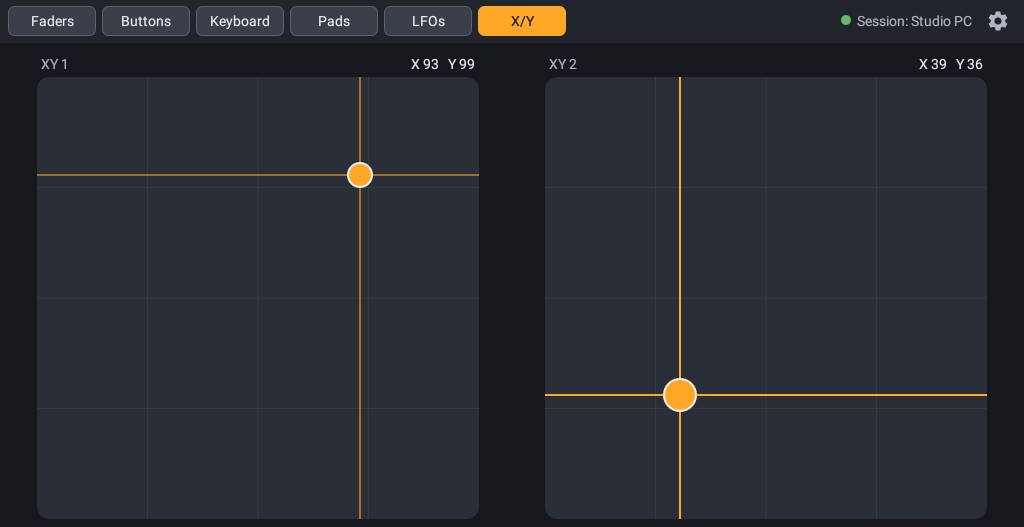
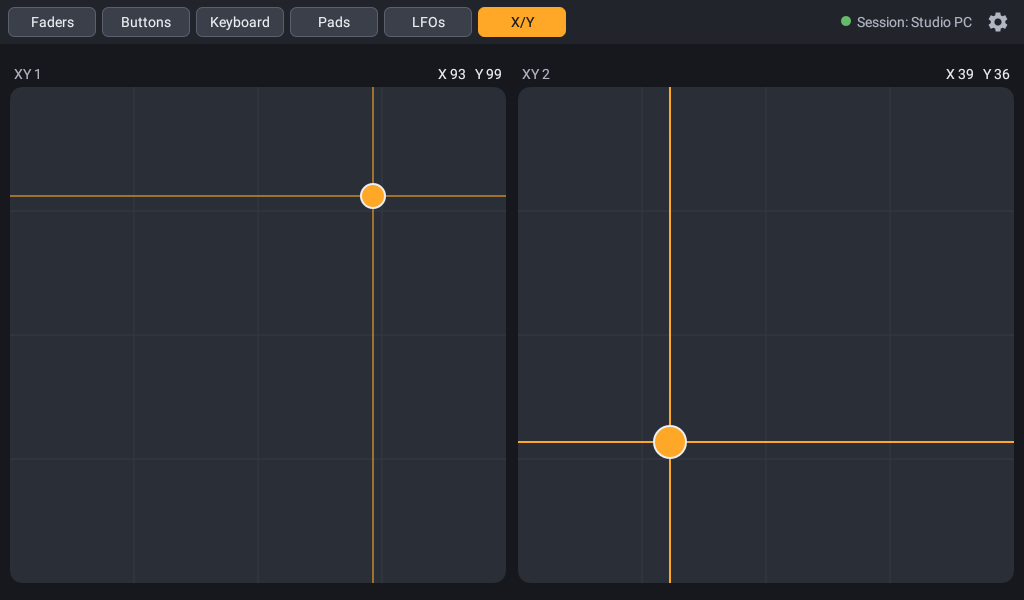
Run fullscreen on the Pages: hide status and navigation bar, swipe from the edge to show them
Settings screen keeps the bars. README: fullscreen note, ZUI window handle under Known issues,
Page screenshots retaken at full 1024x600. CHANGELOG: Unreleased entry. AGENTS.md: cropping only for settings.

Changed region(s): [[0.0, 0.0304, 1.0, 1.0], [0.8125, 0.0304, 1.0, 0.0607]]

diff --git a/app/src/main/java/com/duddex/faderling/Insets.kt b/app/src/main/java/com/duddex/faderling/Insets.kt
@@ -2,7 +2,24 @@ package com.duddex.faderling
 
 import android.os.Build
 import android.view.View
+import android.view.Window
 import android.view.WindowInsets
+import android.view.WindowInsetsController
+
+/** Hides status and navigation bar; an edge swipe shows them on top of the app for a moment. */
+fun Window.hideSystemBars() {
+    if (Build.VERSION.SDK_INT >= 30) {
+        insetsController?.let {
+            it.systemBarsBehavior = WindowInsetsController.BEHAVIOR_SHOW_TRANSIENT_BARS_BY_SWIPE
+            it.hide(WindowInsets.Type.systemBars())
+        }
+    } else {
+        @Suppress("DEPRECATION")
+        decorView.systemUiVisibility = View.SYSTEM_UI_FLAG_IMMERSIVE_STICKY or
+            View.SYSTEM_UI_FLAG_HIDE_NAVIGATION or
+            View.SYSTEM_UI_FLAG_FULLSCREEN
+    }
+}
 
 fun View.padForSystemBars() {
     val base = intArrayOf(paddingLeft, paddingTop, paddingRight, paddingBottom)

diff --git a/app/src/main/java/com/duddex/faderling/MainActivity.kt b/app/src/main/java/com/duddex/faderling/MainActivity.kt
@@ -235,6 +235,11 @@ class MainActivity : Activity(), ControlListener, KeyboardView.Listener, PadGrid
         }, view, SystemClock.uptimeMillis() + RESEND_DELAY_MS)
     }
 
+    override fun onWindowFocusChanged(hasFocus: Boolean) {
+        super.onWindowFocusChanged(hasFocus)
+        if (hasFocus) window.hideSystemBars()
+    }
+
     override fun onPause() {
         keyboard.releaseAll()
         padGrid.releaseAll()

diff --git a/README.md b/README.md
@@ -56,6 +56,7 @@ The gear icon opens the settings on the tab of the Page you are on. Each Page ha
 - Every Control re-sends its final value shortly after release, and every Note Off is sent twice, to make up for lost Wi-Fi packets; held notes are released when you switch Pages or leave the app
 - Advertises itself via Bonjour as **Faderling** plus the device model (e.g. *Faderling KFAUWI*), so several tablets can be told apart; the receiver starts the Session
 - Keeps the screen on while a Page is shown (not on the settings screen, where the normal screen timeout applies); plug the tablet in for longer sessions
+- Runs fullscreen: status and navigation bar are hidden while a Page is shown, swipe from the screen edge to bring them back for a moment. The settings screen keeps them.
 - Runs on Android 5.1 (API 22) and newer, on tablets and phones
 
 ## Download
@@ -116,6 +117,7 @@ After opening the patch, select your rtpMIDI session port as the MIDI device in 
   adb shell settings put system three_finger_slide_down_enabled 0
   ```
   Other manufacturers have similar multi-finger gestures; disable them if they get in the way.
+- **Lenovo tablets (ZUI): a thin bar with "•••" stays at the top in fullscreen.** It is ZUI's window handle (for split screen and floating windows) and cannot be hidden by apps; Faderling leaves room for it so the tabs stay reachable.
 
 ## Tools
 

diff --git a/AGENTS.md b/AGENTS.md
@@ -44,7 +44,7 @@ Faderling is an Android app that turns tablets and phones into a touch MIDI cont
 
 ## README screenshots
 
-- Taken on the Fire 7 (1024×600) with a probe session named "Studio PC" (copy `tools/rtpmidi_probe.py`, change the name). Rotate the raw `screencap` to landscape: read `dumpsys input | grep -m1 SurfaceOrientation` right before each shot (3 = rotate 90°, otherwise 270°), because the owner may turn the tablet. Then crop the system status bar (top 25 px) and navigation bar (bottom 48 px).
+- Taken on the Fire 7 (1024×600) with a probe session named "Studio PC" (copy `tools/rtpmidi_probe.py`, change the name). Rotate the raw `screencap` to landscape: read `dumpsys input | grep -m1 SurfaceOrientation` right before each shot (3 = rotate 90°, otherwise 270°), because the owner may turn the tablet. Pages run fullscreen, so their shots need no cropping; for the settings screen crop the system status bar (top 25 px) and navigation bar (bottom 48 px).
 - The status line must only show "Session: Studio PC" – never the owner's computer name. If the owner's rtpMIDI session is connected, copy the clean status area from an existing screenshot.
 - Check every image before committing.
 

diff --git a/CHANGELOG.md b/CHANGELOG.md
@@ -2,6 +2,12 @@
 
 All notable changes to Faderling are documented here. The format follows [Keep a Changelog](https://keepachangelog.com/en/1.1.0/), and versions follow [Semantic Versioning](https://semver.org/).
 
+## [Unreleased]
+
+### Changed
+
+- Faderling runs fullscreen: status and navigation bar are hidden while a Page is shown, for more room for the Controls (e.g. 73 px more height on a Fire 7). Swipe from the screen edge to show them for a moment; the settings screen keeps them.
+
 ## [1.1.0] – 2026-10-24
 
 ### Added
